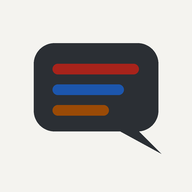
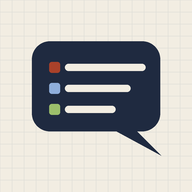
Nova estética: estilos Caderno de campo e Silêncio, Linha do tempo
- Estilos em Menu › Aparência: Caderno de campo (padrão), Silêncio, Clássico
- Caderno: papel quadriculado, fichas com abas, Fraunces + IBM Plex Mono
- Silêncio: cor só no essencial, cabeçalho e caixa de texto flutuantes, preto profundo
- Layout Linha do tempo com marca de agora e próximos compromissos e vencimentos
- Ícones próprios para os tipos; envio que vira card; expansão a partir do toque;
  carimbo PAGO; cor de destaque escolhida pelo usuário
- Novo ícone do app e cores da tela de abertura

Claude-Session: https://claude.ai/code/session_01TLyyv7W5W1kY5WACEsfQuE

Changed region(s): [[0.1562, 0.1875, 0.8438, 0.8125], [0.25, 0.3125, 0.7812, 0.5], [0.25, 0.5312, 0.625, 0.625]]

diff --git a/src/app.js b/src/app.js
@@ -2,23 +2,23 @@
 "use strict";
 /* ---------- ícones ---------- */
 const P = {
-  texto:'<path d="M17 10H3M21 6H3M21 14H3M17 18H3"/>',
-  imagem:'<rect x="3" y="3" width="18" height="18" rx="2"/><circle cx="8.5" cy="8.5" r="1.5"/><path d="M21 15l-5-5L5 21"/>',
-  audio:'<rect x="9" y="2" width="6" height="12" rx="3"/><path d="M19 10v1a7 7 0 0 1-14 0v-1M12 18v4"/>',
-  documento:'<path d="M14 2H6a2 2 0 0 0-2 2v16a2 2 0 0 0 2 2h12a2 2 0 0 0 2-2V8z"/><path d="M14 2v6h6"/>',
-  link:'<path d="M10 13a5 5 0 0 0 7.54.54l3-3a5 5 0 0 0-7.07-7.07l-1.72 1.71"/><path d="M14 11a5 5 0 0 0-7.54-.54l-3 3a5 5 0 0 0 7.07 7.07l1.71-1.71"/>',
-  agenda:'<rect x="3" y="4" width="18" height="18" rx="2"/><path d="M16 2v4M8 2v4M3 10h18"/>',
+  texto:'<path d="M4 20h16"/><path d="M14.5 4.5l3 3L8 17H5v-3z"/>',
+  imagem:'<rect x="4" y="3" width="16" height="18" rx="2"/><rect x="7" y="6" width="10" height="9" rx="1"/><path d="M8 18h4"/>',
+  audio:'<path d="M4 10v4M8 7v10M12 4v16M16 8v8M20 11v2"/>',
+  documento:'<path d="M14 3H6.5A2.5 2.5 0 0 0 4 5.5v13A2.5 2.5 0 0 0 6.5 21h11a2.5 2.5 0 0 0 2.5-2.5V9z"/><path d="M14 3v6h6"/><path d="M8 13h8M8 17h5"/>',
+  link:'<path d="M9 15l6-6"/><path d="M11 6.5l1.6-1.6a4 4 0 0 1 5.6 5.6L16.6 12"/><path d="M13 17.5l-1.6 1.6a4 4 0 0 1-5.6-5.6L7.4 12"/>',
+  agenda:'<rect x="3.5" y="5" width="17" height="15.5" rx="2.5"/><path d="M8 3v4M16 3v4M3.5 10h17"/><circle cx="12" cy="15" r="1.6"/>',
   bell:'<path d="M18 8A6 6 0 0 0 6 8c0 7-3 9-3 9h18s-3-2-3-9"/><path d="M13.73 21a2 2 0 0 1-3.46 0"/>',
-  despesa:'<path d="M12 1v22M17 5H9.5a3.5 3.5 0 0 0 0 7h5a3.5 3.5 0 0 1 0 7H6"/>',
-  apagar:'<circle cx="12" cy="12" r="10"/><path d="M12 6v6l4 2"/>',
-  pago:'<path d="M22 11.08V12a10 10 0 1 1-5.93-9.14"/><path d="M22 4L12 14.01l-3-3"/>',
-  compra:'<circle cx="9" cy="21" r="1"/><circle cx="20" cy="21" r="1"/><path d="M1 1h4l2.68 13.39a2 2 0 0 0 2 1.61h9.72a2 2 0 0 0 2-1.61L23 6H6"/>',
-  contato:'<path d="M20 21v-2a4 4 0 0 0-4-4H8a4 4 0 0 0-4 4v2"/><circle cx="12" cy="7" r="4"/>',
-  email:'<rect x="2" y="4" width="20" height="16" rx="2"/><path d="M22 6l-10 7L2 6"/>',
+  despesa:'<circle cx="12" cy="12" r="8.5"/><path d="M14.5 9.5c-.5-1-1.5-1.5-2.5-1.5-1.4 0-2.5.8-2.5 2s1.1 1.6 2.5 2 2.5.8 2.5 2-1.1 2-2.5 2c-1 0-2-.5-2.5-1.5M12 6.5V8M12 16v1.5"/>',
+  apagar:'<path d="M6.5 3h11M6.5 21h11"/><path d="M8 3v2.5a4 4 0 0 0 1.7 3.3L12 10.5l2.3-1.7A4 4 0 0 0 16 5.5V3M8 21v-2.5a4 4 0 0 1 1.7-3.3L12 13.5l2.3 1.7a4 4 0 0 1 1.7 3.3V21"/>',
+  pago:'<circle cx="12" cy="12" r="8.5"/><path d="M8.5 12.5l2.3 2.3 4.7-5"/>',
+  compra:'<path d="M5 8h14l-1.2 11.2a2 2 0 0 1-2 1.8H8.2a2 2 0 0 1-2-1.8z"/><path d="M9 10V7a3 3 0 0 1 6 0v3"/>',
+  contato:'<rect x="3" y="5" width="18" height="14" rx="2.5"/><circle cx="9" cy="11" r="2.3"/><path d="M5.8 16.2c.6-1.6 1.8-2.4 3.2-2.4s2.6.8 3.2 2.4M14.5 10h3.5M14.5 13.5h3"/>',
+  email:'<rect x="3" y="5.5" width="18" height="13" rx="2.5"/><path d="M4 7l8 6 8-6"/>',
   phone:'<path d="M22 16.92v3a2 2 0 0 1-2.18 2 19.79 19.79 0 0 1-8.63-3.07 19.5 19.5 0 0 1-6-6 19.79 19.79 0 0 1-3.07-8.67A2 2 0 0 1 4.11 2h3a2 2 0 0 1 2 1.72c.13.96.36 1.9.7 2.81a2 2 0 0 1-.45 2.11L8.09 9.91a16 16 0 0 0 6 6l1.27-1.27a2 2 0 0 1 2.11-.45c.91.34 1.85.57 2.81.7A2 2 0 0 1 22 16.92z"/>',
-  local:'<path d="M21 10c0 7-9 13-9 13s-9-6-9-13a9 9 0 0 1 18 0z"/><circle cx="12" cy="10" r="3"/>',
-  lista:'<path d="M9 11l3 3L22 4"/><path d="M21 12v7a2 2 0 0 1-2 2H5a2 2 0 0 1-2-2V5a2 2 0 0 1 2-2h11"/>',
-  itens:'<path d="M8 6h13M8 12h13M8 18h13M3 6h.01M3 12h.01M3 18h.01"/>',
+  local:'<path d="M12 21s-6-5.6-6-10.5a6 6 0 0 1 12 0C18 15.4 12 21 12 21z"/><circle cx="12" cy="10.5" r="2.2"/>',
+  lista:'<path d="M4 6.5l1.5 1.5L8.5 5M4 12.5l1.5 1.5 3-3M11 6.5h9M11 12.5h9M11 18.5h9M4.5 18.5h3"/>',
+  itens:'<path d="M9 6.5h11M9 12h11M9 17.5h11"/><circle cx="5" cy="6.5" r="1.3"/><circle cx="5" cy="12" r="1.3"/><circle cx="5" cy="17.5" r="1.3"/>',
   ul:'<path d="M9 6h12M9 12h12M9 18h12"/><circle cx="4" cy="6" r="1.2" fill="currentColor"/><circle cx="4" cy="12" r="1.2" fill="currentColor"/><circle cx="4" cy="18" r="1.2" fill="currentColor"/>',
   ol:'<path d="M10 6h11M10 12h11M10 18h11M4 4v4M3 8h2M3 12.5c0-1 2-1 2 0s-2 1.5-2 2.5h2M3 17h2v4H3M3 19h2"/>',
   quote:'<path d="M3 21c3 0 7-1 7-8V5H3v8h4M14 21c3 0 7-1 7-8V5h-7v8h4"/>',
@@ -290,11 +290,11 @@ function saveTags(){
   if(S.mode==='db'){ const tags=clone(S.tags); return enqueue(CFG, ()=>S.col.doc(CFG).set({kind:'cfg', tags}).catch(writeErr)); }
   try{ localStorage.setItem(TKEY, JSON.stringify(S.tags)); }catch(e){} return Promise.resolve();
 }
-function loadPref(){ try{ const p=JSON.parse(localStorage.getItem(PKEY)||'{}'); if(p.exib==='expandida') UI.exib='expandida'; if(p.tema==='claro'||p.tema==='escuro') UI.tema=p.tema; }catch(e){} applyTheme(); }
+function loadPref(){ try{ const p=JSON.parse(localStorage.getItem(PKEY)||'{}'); if(p.exib==='expandida') UI.exib='expandida'; if(p.tema==='claro'||p.tema==='escuro') UI.tema=p.tema; if(['caderno','silencio','classico'].indexOf(p.estilo)>=0) UI.estilo=p.estilo; if(p.layout==='linha') UI.layout='linha'; if(/^#[0-9A-Fa-f]{6}$/.test(p.accent||'')) UI.accent=p.accent; }catch(e){} applyTheme(); }
 const darkMQ=window.matchMedia?window.matchMedia('(prefers-color-scheme: dark)'):null;
-function applyTheme(){ const dark=UI.tema==='escuro' || (UI.tema==='auto' && darkMQ && darkMQ.matches); document.documentElement.setAttribute('data-theme', dark?'dark':'light'); const mt=document.querySelector('meta[name="theme-color"]'); if(mt) mt.setAttribute('content', dark?'#131416':'#F4F3EF'); }
+function applyTheme(){ const dark=UI.tema==='escuro' || (UI.tema==='auto' && darkMQ && darkMQ.matches); const de=document.documentElement; de.setAttribute('data-theme', dark?'dark':'light'); de.setAttribute('data-estilo', UI.estilo); if(UI.accent){ de.setAttribute('data-accent','1'); de.style.setProperty('--accent-c', UI.accent); } else { de.removeAttribute('data-accent'); de.style.removeProperty('--accent-c'); } const mt=document.querySelector('meta[name="theme-color"]'); if(mt) mt.setAttribute('content', getComputedStyle(de).getPropertyValue('--ground').trim()||'#F4F3EF'); }
 if(darkMQ){ try{ darkMQ.addEventListener('change', ()=>{ if(UI.tema==='auto') applyTheme(); }); }catch(e){ try{ darkMQ.addListener(()=>{ if(UI.tema==='auto') applyTheme(); }); }catch(e2){} } }
-function savePref(){ try{ localStorage.setItem(PKEY, JSON.stringify({exib:UI.exib, tema:UI.tema})); }catch(e){} }
+function savePref(){ try{ localStorage.setItem(PKEY, JSON.stringify({exib:UI.exib, tema:UI.tema, estilo:UI.estilo, layout:UI.layout, accent:UI.accent})); }catch(e){} }
 function loadLocal(){ try{ const raw=localStorage.getItem(LKEY); if(raw){ const arr=JSON.parse(raw); arr.forEach(it=>S.items.set(it.id,it)); } }catch(e){} }
 function saveLocal(){ try{ localStorage.setItem(LKEY, JSON.stringify(Array.from(S.items.values()))); }catch(e){ toast('Não foi possível salvar neste navegador.'); } }
 function body(it){ const o=clone(it); delete o.id; return o; }
@@ -339,7 +339,7 @@ async function initStore(){
 function setBanner(t){ const b=document.getElementById('banner'); b.textContent=t; b.hidden=!t; }
 
 /* ---------- interface ---------- */
-const UI = { filter:'tudo', tag:null, q:'', view:'feed', mes:null, exib:'compacta', tema:'auto', open:new Set(), pinIdx:0, fresh:new Set(), justOpened:null };
+const UI = { filter:'tudo', tag:null, q:'', view:'feed', mes:null, exib:'compacta', tema:'auto', estilo:'caderno', layout:'chat', accent:'', stamp:new Set(), viaComposer:new Set(), origin:null, open:new Set(), pinIdx:0, fresh:new Set(), justOpened:null };
 loadPref();
 let toastT=null;
 let undoFn=null;
@@ -370,15 +370,20 @@ function render(){
   const list=sorted().filter(matches);
   if(!S.loaded && S.items.size===0){ feed.innerHTML='<div class="empty">Carregando suas notas…</div>'; return; }
   if(list.length===0){
+    feed.classList.remove('linha');
     feed.innerHTML = sorted().length===0
       ? '<div class="empty"><b style="color:var(--ink);font-size:16px">Comece escrevendo abaixo</b><br>Experimente “pagar 180 ao Seu Zé dia 20”, “reunião sexta 19h” ou cole um link.<br><br>Formate como no WhatsApp: *negrito*, _itálico_, ~riscado~ e linhas começando com “-” viram lista.</div>'
       : emptyFor();
     return;
   }
-  let html='', lastDay='';
-  list.forEach(it=>{ const day=fmtDia(it.criado); if(day!==lastDay){ html+='<div class="sep">'+esc(day)+'</div>'; lastDay=day; } html+=card(it); });
-  feed.innerHTML=html;
-  if(wantEnd || atEnd){ feed.scrollTop=feed.scrollHeight; }
+  feed.classList.toggle('linha', UI.layout==='linha');
+  if(UI.layout==='linha'){ renderLinha(feed, list, atEnd); }
+  else {
+    let html='', lastDay='';
+    list.forEach(it=>{ const day=fmtDia(it.criado); if(day!==lastDay){ html+='<div class="sep">'+esc(day)+'</div>'; lastDay=day; } html+=card(it); });
+    feed.innerHTML=html;
+    if(wantEnd || atEnd){ feed.scrollTop=feed.scrollHeight; }
+  }
   wantEnd=false; UI.justOpened=null;
   notifyChanged();
 }
@@ -393,6 +398,29 @@ function emptyFor(){
   else if(T[tp].file) h+='<span>Toque no clipe, ao lado da caixa de texto, para escolher '+(tp==='imagem'?'fotos':tp==='audio'?'um áudio':'um arquivo')+(tp==='audio'?', ou no microfone para gravar.':'.')+'</span>';
   h+='<button type="button" class="btn dark" data-newtype="'+tp+'">Criar '+esc(nome)+'</button><button type="button" class="btn" data-clearf="1">Ver todos os itens</button></div>';
   return h;
+}
+function dayHead(d){ return '<div class="tdaynum"><b>'+d.getDate()+'</b><span>'+WD[d.getDay()]+'<br>'+MES[d.getMonth()]+(d.getFullYear()!==new Date().getFullYear()?' '+d.getFullYear():'')+'</span></div>'; }
+function renderLinha(feed, list, atEnd){
+  let html='', cur=null, open=false;
+  const close=()=>{ if(open){ html+='</div></section>'; open=false; } };
+  list.forEach(it=>{ const d=new Date(it.criado); d.setHours(0,0,0,0); if(!cur || d.getTime()!==cur.getTime()){ close(); cur=d; html+='<section class="tday">'+dayHead(d)+'<div class="titems">'; open=true; } html+='<div class="trow"><span class="ttime">'+fmtHora(it.criado)+'</span>'+card(it)+'</div>'; });
+  close();
+  // próximos compromissos e vencimentos (por data marcada)
+  const showFut=!UI.q && !UI.tag && (UI.filter==='tudo'||UI.filter==='agenda'||UI.filter==='despesa');
+  const fut=[]; const now=new Date(); const t=today(); const lim=new Date(t); lim.setDate(lim.getDate()+30);
+  if(showFut) sorted().forEach(i=>{ const d=i.dados||{}; let ds=null, hr=''; if(i.tipo==='agenda' && UI.filter!=='despesa'){ ds=d.data; hr=d.hora||''; } else if(i.tipo==='despesa' && d.situacao!=='pago' && UI.filter!=='agenda'){ ds=d.vencimento; } const dt=parseIso(ds); if(!dt || dt<t || dt>lim) return; if(dt.getTime()===t.getTime() && hr){ const [hh,mm]=hr.split(':').map(Number); const at=new Date(t); at.setHours(hh,mm); if(at<now) return; } fut.push({dt,hr,i}); });
+  fut.sort((a,b)=>a.dt-b.dt || String(a.hr).localeCompare(String(b.hr)));
+  html+='<div class="agora" id="agora">Agora · '+pad(now.getHours())+':'+pad(now.getMinutes())+'</div>';
+  if(fut.length){
+    let fd=null, fo=false;
+    fut.slice(0,25).forEach(f=>{ if(!fd || f.dt.getTime()!==fd.getTime()){ if(fo) html+='</div></section>'; fd=f.dt; html+='<section class="tday futuro">'+dayHead(f.dt)+'<div class="titems">'; fo=true; }
+      const d=f.i.dados; const isD=f.i.tipo==='despesa';
+      html+='<div class="trow"><span class="ttime">'+esc(f.hr||(isD?'vence':'—'))+'</span><button type="button" class="ghost" data-goto="'+esc(f.i.id)+'"><span style="color:'+famColor(f.i)+';display:flex">'+svg(iconOf(f.i),18)+'</span><span style="display:flex;flex-direction:column;gap:1px;min-width:0"><b>'+esc(isD?(d.descricao||'Despesa'):(d.titulo||'Compromisso'))+'</b><span class="gsub">'+esc(isD?('A pagar · '+fmtMoney(d.valor)+(d.para?' · '+d.para:'')):[d.local, d.repetir?'repete '+repLabel(d.repetir):''].filter(Boolean).join(' · ')||'Agenda')+'</span></span></button></div>';
+    });
+    if(fo) html+='</div></section>';
+  } else if(showFut) html+='<p class="muted" style="text-align:center;margin:0 0 12px">Nada marcado para os próximos 30 dias.</p>';
+  feed.innerHTML=html;
+  if(wantEnd || atEnd){ const ag=document.getElementById('agora'); feed.scrollTop = ag ? Math.max(0, ag.offsetTop - feed.clientHeight*0.62) : feed.scrollHeight; }
 }
 function activeCount(){ return (UI.filter!=='tudo'?1:0)+(UI.tag?1:0); }
 function renderActive(){
@@ -433,7 +461,7 @@ function gallery(id, as, alt){
   return h+'</div>';
 }
 function fullCard(it){
-  const d=it.dados||{}; const fk=famKey(it); let cls='card f-'+fk+(UI.justOpened===it.id?' abrindo':'')+(UI.fresh.has(it.id)?' novo':''); const id=esc(it.id);
+  const d=it.dados||{}; const fk=famKey(it); let cls='card f-'+fk+(UI.justOpened===it.id?' abrindo':'')+(UI.fresh.has(it.id)?' novo':'')+(UI.viaComposer.has(it.id)?' doenvio':'')+(UI.stamp.has(it.id)?' carimbo':''); const id=esc(it.id);
   let inner='';
   switch(it.tipo){
     case 'texto': {
@@ -461,7 +489,8 @@ function fullCard(it){
   }
   const tags=itemTags(it); const compactMode=UI.exib==='compacta';
   inner+='<div class="cfoot">'+(tags.length?'<div class="tpills">'+tags.map(t=>tagPill(t)).join('')+'</div>':'')+'<div class="cacts"><button type="button" class="mini" data-edit="'+id+'">'+svg('edit',14)+'Editar</button>'+(compactMode?'<button type="button" class="mini" data-collapse="'+id+'" aria-expanded="true">'+'<span style="display:inline-flex;transform:rotate(180deg)">'+svg('chevron',14)+'</span>Recolher</button>':'')+'</div></div>';
-  return '<div class="'+cls+'" data-open="'+id+'" tabindex="0" aria-label="'+esc(typeLabel(it))+': '+esc(cardTitle(it))+(compactMode?' (expandido; toque para recolher)':'')+'">'+inner+'</div>';
+  const og=(UI.origin && UI.origin.id===it.id)?' style="--ox:'+UI.origin.ox+'%;--oy:'+UI.origin.oy+'%"':'';
+  return '<div class="'+cls+'"'+og+' data-open="'+id+'" tabindex="0" aria-label="'+esc(typeLabel(it))+': '+esc(cardTitle(it))+(compactMode?' (expandido; toque para recolher)':'')+'">'+inner+'</div>';
 }
 function summary(it){
   const d=it.dados||{}; let t='', sub='', right='', thumb='';
@@ -494,7 +523,7 @@ function quickAction(it){
 }
 function card(it){
   if(UI.exib!=='compacta' || UI.open.has(it.id)) return fullCard(it);
-  const sm=summary(it); const id=esc(it.id); let cls='card compact f-'+famKey(it)+(UI.fresh.has(it.id)?' novo':'');
+  const sm=summary(it); const id=esc(it.id); let cls='card compact f-'+famKey(it)+(UI.fresh.has(it.id)?' novo':'')+(UI.viaComposer.has(it.id)?' doenvio':'')+(UI.stamp.has(it.id)?' carimbo':'');
   if(it.tipo==='texto' && it.dados && it.dados.estilo==='destaque') cls+=' st-destaque';
   const tags=itemTags(it);
   if(it.tipo==='lista'){ const its=it.dados.itens||[]; const k=its.findIndex(x=>!x.ok); if(k>=0) sm.sub='Próximo: '+its[k].t; else if(its.length) sm.sub='Tudo concluído'; }
@@ -554,6 +583,7 @@ function send(asText){
   let it;
   if(!asText && sug){ it=newItem(sug.tipo, clone(sug.dados)); it.hist[0].txt='Criado a partir do texto “'+v.slice(0,80)+'”'; }
   else it=newItem('texto', hasWa(v)?{html:waToHtml(v), texto:plainOf(waToHtml(v))}:{texto:v});
+  UI.viaComposer.add(it.id); setTimeout(()=>UI.viaComposer.delete(it.id), 1200);
   put(it); resetComposer();
 }
 msg.addEventListener('input', ()=>{ autosize(); updateSuggest(); updateSendBtn(); });
@@ -764,6 +794,7 @@ function markPaid(id, silent){
   const it=S.items.get(id); if(!it || it.tipo!=='despesa' || it.dados.situacao==='pago') return;
   const prev=clone(it); const n=clone(it);
   n.dados.situacao='pago'; n.dados.pagoEm=isoOf(today()); n.pagoNoApp=true; addHist(n,'Marcado como pago');
+  UI.stamp.add(id); setTimeout(()=>{ UI.stamp.delete(id); scheduleRender(); }, 1100);
   const nx=makeNext(n); if(nx){ n.proxId=nx.id; put(nx); }
   put(n); buzz();
   if(!silent) toastUndo(nx?'Pago. Próximo vencimento: '+fmtData(nx.dados.vencimento)+'.':'Marcado como pago.', ()=>{ put(prev); if(nx) remove(nx.id); });
@@ -946,8 +977,12 @@ layer.addEventListener('click', ev=>{
   if(ds.restore){ const it=S.items.get(ds.restore); if(it){ const n=clone(it); delete n.excluido; addHist(n,'Restaurado da lixeira'); put(n); toast('Item restaurado.'); } openTrash(true); return; }
   if(ds.purge){ remove(ds.purge); toast('Excluído de vez.'); openTrash(true); return; }
   if(ds.purgeall){ trashed().forEach(i=>remove(i.id)); toast('Lixeira esvaziada.'); openTrash(true); return; }
-  if(ds.tema){ UI.tema=ds.tema; savePref(); applyTheme(); openMenu(); return; }
-  if(ds.exib){ UI.exib=ds.exib; savePref(); UI.open.clear(); openMenu(); scheduleRender(); return; }
+  if(ds.aparencia){ openAparencia(); return; }
+  if(ds.tema){ UI.tema=ds.tema; savePref(); applyTheme(); openAparencia(true); scheduleRender(); return; }
+  if(ds.exib){ UI.exib=ds.exib; savePref(); UI.open.clear(); openAparencia(true); scheduleRender(); return; }
+  if(ds.estilo){ UI.estilo=ds.estilo; savePref(); applyTheme(); openAparencia(true); scheduleRender(); return; }
+  if(ds.layout){ UI.layout=ds.layout; savePref(); wantEnd=true; openAparencia(true); scheduleRender(true); return; }
+  if(ds.accent!=null){ UI.accent=ds.accent; savePref(); applyTheme(); openAparencia(true); return; }
 });
 
 /* ---------- ações no feed ---------- */
@@ -984,7 +1019,7 @@ function onFeedClick(ev){
   const id=o.dataset.open;
   if(o.closest('#views') || o.closest('#aside')){ UI.view='feed'; expandAndShow(id); return; }
   if(UI.exib!=='compacta') return;
-  if(UI.open.has(id)){ if(ev.target.closest('a,button,input,audio,select,textarea,label')) return; UI.open.delete(id); } else { UI.open.add(id); UI.justOpened=id; }
+  if(UI.open.has(id)){ if(ev.target.closest('a,button,input,audio,select,textarea,label')) return; UI.open.delete(id); } else { UI.open.add(id); UI.justOpened=id; const cr=(o.closest('.card')||o).getBoundingClientRect(); UI.origin={id, ox:Math.round((ev.clientX-cr.left)/Math.max(1,cr.width)*100), oy:Math.round((ev.clientY-cr.top)/Math.max(1,cr.height)*100)}; }
   render(); focusCard(id);
 }
 function focusCard(id){ const el=document.querySelector('#feed [data-open="'+(window.CSS&&CSS.escape?CSS.escape(id):id)+'"]'); if(el){ try{ el.focus({preventScroll:true}); }catch(e){} const f=document.getElementById('feed'); const r=el.getBoundingClientRect(), fr=f.getBoundingClientRect(); if(r.bottom>fr.bottom) f.scrollTop+=r.bottom-fr.bottom+8; if(r.top<fr.top) f.scrollTop-=fr.top-r.top+8; } }
@@ -1119,6 +1154,20 @@ function rebindComposer(){ msg=document.getElementById('msg'); msg.addEventListe
 document.getElementById('bMenu').addEventListener('click', openMenu);
 document.getElementById('toastbar').addEventListener('click', ev=>{ if(!ev.target.closest('[data-undo]') || !undoFn) return; const f=undoFn; undoFn=null; const el=document.getElementById('toastbar'); el.hidden=true; el.classList.remove('withundo'); f(); toast('Desfeito.'); });
 
+/* ---------- aparência ---------- */
+const ACCENTS=[['','Padrão'],['#0F5E63','Petróleo'],['#3F3D9E','Índigo'],['#7A2846','Vinho'],['#5B3A70','Ameixa'],['#5A5A1E','Oliva']];
+function segOpts(key, cur, opts){ return '<div class="seg" role="group" aria-labelledby="lb_'+key+'" style="--n:'+opts.length+'">'+opts.map(o=>'<button type="button" data-'+key+'="'+o[0]+'" aria-pressed="'+(cur===o[0])+'">'+esc(o[1])+'</button>').join('')+'</div>'; }
+function openAparencia(keep){
+  let h=sheetHead('Aparência');
+  const est=[['caderno','Caderno de campo','Papel quadriculado, fichas com abas, serifa e números de livro-caixa.'],['silencio','Silêncio','Quase sem cor: só o que pede atenção aparece. Preto profundo no escuro.'],['classico','Clássico','O visual anterior, com fundos coloridos por tipo.']];
+  h+='<div class="field"><span class="flabel" id="lb_estilo">Estilo</span><div class="estilos" role="group" aria-labelledby="lb_estilo">'+est.map(e=>'<button type="button" class="estcard" data-estilo="'+e[0]+'" aria-pressed="'+(UI.estilo===e[0])+'"><span class="estprev est-'+e[0]+'"><i></i><i></i><i></i></span><span class="esttx"><b>'+esc(e[1])+'</b><span>'+esc(e[2])+'</span></span></button>').join('')+'</div></div>';
+  h+='<div class="field"><span class="flabel" id="lb_tema">Modo</span>'+segOpts('tema', UI.tema, [['auto','Automático'],['claro','Claro'],['escuro','Escuro']])+'</div>';
+  h+='<div class="field"><span class="flabel" id="lb_layout">Layout do feed</span>'+segOpts('layout', UI.layout, [['chat','Conversa'],['linha','Linha do tempo']])+'<span class="muted">'+(UI.layout==='linha'?'Os dias ficam na margem, com a marca de agora e os próximos compromissos e vencimentos abaixo dela.':'Os itens aparecem como mensagens, do mais antigo ao mais novo.')+'</span></div>';
+  h+='<div class="field"><span class="flabel" id="lb_exib">Itens</span>'+segOpts('exib', UI.exib, [['compacta','Compactos'],['expandida','Expandidos']])+'</div>';
+  h+='<div class="field"><span class="flabel" id="lb_acc">Cor de destaque (botões principais)</span><div class="accgrid" role="group" aria-labelledby="lb_acc">'+ACCENTS.map(a=>'<button type="button" data-accent="'+a[0]+'" aria-pressed="'+(UI.accent===a[0])+'" aria-label="'+esc(a[1])+'" style="background:'+(a[0]||'var(--strong)')+'">'+(UI.accent===a[0]?svg('check',18,3):'')+'</button>').join('')+'</div><span class="muted">As cores que indicam tipo e situação não mudam.</span></div>';
+  openSheet(h,'Aparência', keep);
+}
+
 /* ---------- lixeira ---------- */
 function openTrash(keep){
   const its=trashed();
@@ -1138,8 +1187,7 @@ function openMenu(){
   const acc=window.__account;
   h+='<div style="font-size:14px;line-height:1.5;background:var(--soft);border-radius:12px;padding:12px 14px">'+(S.mode==='db'?'<b>Sincronizado na nuvem.</b> Suas notas aparecem em qualquer aparelho em que você entrar com a sua conta.'+(acc?'<br><b>Conta:</b> '+esc(acc.email):''):'<b>Modo local:</b> as notas ficam só neste aparelho. Faça backups com frequência.')+'<br><b>Itens:</b> '+n+'</div>';
   if(acc) h+='<button type="button" class="btn" data-logout="1">Sair da conta</button>';
-  h+='<div class="field"><span class="flabel" id="lb_tema">Aparência</span><div class="seg" role="group" aria-labelledby="lb_tema" style="--n:3"><button type="button" data-tema="auto" aria-pressed="'+(UI.tema==='auto')+'">Automático</button><button type="button" data-tema="claro" aria-pressed="'+(UI.tema==='claro')+'">Claro</button><button type="button" data-tema="escuro" aria-pressed="'+(UI.tema==='escuro')+'">Escuro</button></div><span class="muted">'+(UI.tema==='auto'?'Segue o modo claro ou escuro do aparelho.':UI.tema==='escuro'?'Sempre escuro.':'Sempre claro.')+'</span></div>';
-  h+='<div class="field"><span class="flabel" id="lb_exib">Exibição dos itens</span><div class="seg" role="group" aria-labelledby="lb_exib" style="--n:2"><button type="button" data-exib="compacta" aria-pressed="'+(UI.exib==='compacta')+'">Compacta</button><button type="button" data-exib="expandida" aria-pressed="'+(UI.exib==='expandida')+'">Expandida</button></div><span class="muted">'+(UI.exib==='compacta'?'Os itens aparecem resumidos; toque para expandir.':'Os itens aparecem completos.')+'</span></div>';
+  h+='<button type="button" class="btn" data-aparencia="1" style="justify-content:space-between"><span style="display:inline-flex;align-items:center;gap:8px">'+svg('texto',16)+'Aparência</span><span class="muted">'+esc(({caderno:'Caderno de campo',silencio:'Silêncio',classico:'Clássico'})[UI.estilo])+' · '+(UI.layout==='linha'?'Linha do tempo':'Conversa')+'</span></button>';
   h+='<div class="grid2"><button type="button" class="btn" data-tagmgr2="1">'+svg('tag',16)+'Marcadores ('+S.tags.length+')</button><button type="button" class="btn" data-lixeira="1">'+svg('trash',16)+'Lixeira ('+trashed().length+')</button></div>';
   h+='<div class="muted" style="line-height:1.5"><b style="color:var(--ink)">Dicas:</b> toque num item para expandir; toque longo (ou o botão Editar) para editar. Na caixa de texto, *negrito*, _itálico_, ~riscado~ e linhas com “-” viram lista.</div>';
   h+='<div style="display:flex;flex-direction:column;gap:8px"><span class="flabel">Backup</span><button type="button" class="btn dark" data-exp="1">Exportar backup (arquivo .json)</button><label class="btn" for="fImport" style="cursor:pointer">Importar backup</label><input type="file" id="fImport" class="sr" accept="application/json,.json"><span class="muted">O backup guarda textos e dados. Imagens, áudios e documentos continuam no armazenamento do app.</span></div>';

diff --git a/src/style.css b/src/style.css
@@ -319,3 +319,150 @@ main.feed .sep{position:sticky;top:6px;z-index:3;box-shadow:0 1px 4px var(--shad
 .exemplo{display:block;background:var(--surface);border:1px solid var(--line);border-radius:12px;padding:10px 14px;font-family:inherit;font-size:14px;color:var(--ink);text-align:left;max-width:280px}
 .app{position:relative}
 .app.dropping::after{content:'Solte para enviar';position:absolute;inset:12px;border:2px dashed var(--tempo);border-radius:20px;background:color-mix(in srgb, var(--ground) 85%, transparent);display:flex;align-items:center;justify-content:center;font-size:18px;font-weight:700;color:var(--tempo);z-index:30;pointer-events:none}
+
+/* =====================================================================
+   ESTILOS VISUAIS — escolhidos em Menu › Aparência
+   (data-estilo no <html>: caderno | silencio | classico)
+   ===================================================================== */
+:root{ --accent:var(--strong); --f-display:'Inter Variable',Inter,system-ui,sans-serif; --f-mono:ui-monospace,'SF Mono',Menlo,monospace; --grid:none; }
+.btn.dark,.round.dark,.toastbar .tundo{background-color:var(--accent);border-color:var(--accent)}
+.btn.dark{background:var(--accent)} .round.dark{background:var(--accent)}
+.chip[aria-pressed="true"].tchip,.seg.navseg button[aria-pressed="true"]{}
+body{background-image:var(--grid);background-attachment:fixed}
+.app,main.feed,.views{background:transparent}
+
+/* ---------- A. Caderno de campo ---------- */
+:root[data-estilo="caderno"]{
+  --ground:#F2EDE2; --surface:#FBF8F1; --line:#E2D9C8; --line2:#D3C8B3; --ink:#1F2A40; --ink2:#46506A; --muted:#6F6A5E;
+  --soft:#F5F0E5; --soft2:#E9E2D3; --strong:#1F2A40; --box:#B98A3E; --shadow:rgba(60,45,20,.10);
+  --reg:#4A4A44; --reg-bg:#FBF8F1; --reg-bd:#E2D9C8; --reg-chip:#EDE7DA;
+  --tempo:#36577F; --tempo-bg:#FBF8F1; --tempo-bd:#E2D9C8; --tempo-chip:#E3E8EE;
+  --pagar:#A9412A; --pagar-bg:#FBF3EC; --pagar-bd:#EBCFC2; --pagar-chip:#F3DED3; --pagar-solid:#A9412A;
+  --din:#4C6A2C; --din-bg:#FBF8F1; --din-bd:#E2D9C8; --din-chip:#E6EBD9; 
+  --pes:#6A4677; --pes-bg:#FBF8F1; --pes-bd:#E2D9C8; --pes-chip:#ECE3EE; --pes-solid:#6A4677;
+  --lis:#94620F; --lis-bg:#FBF8F1; --lis-bd:#E2D9C8; --lis-chip:#F1E6CF; --lis-solid:#94620F;
+  --f-display:'Fraunces Variable',Georgia,serif; --f-mono:'IBM Plex Mono',ui-monospace,monospace;
+  --grid:linear-gradient(rgba(54,87,127,.055) 1px,transparent 1px),linear-gradient(90deg,rgba(54,87,127,.055) 1px,transparent 1px);
+}
+:root[data-estilo="caderno"][data-theme="dark"]{
+  --ground:#18201E; --surface:#212A27; --line:#2F3A36; --line2:#3D4A45; --ink:#ECE6D8; --ink2:#C9C2B2; --muted:#9C9688;
+  --soft:#26302D; --soft2:#2E3935; --strong:#3F4B47; --box:#C9A15C; --shadow:rgba(0,0,0,.35);
+  --reg:#C9C2B2; --reg-bg:#222B28; --reg-bd:#2F3A36; --reg-chip:#2E3935;
+  --tempo:#93B3DC; --tempo-bg:#222B28; --tempo-bd:#2F3A36; --tempo-chip:#26354A;
+  --pagar:#EE9678; --pagar-bg:#2C2320; --pagar-bd:#4A3129; --pagar-chip:#45291F; --pagar-solid:#B04A31;
+  --din:#A9C67B; --din-bg:#222B28; --din-bd:#2F3A36; --din-chip:#2C3A22;
+  --pes:#CBA5D8; --pes-bg:#222B28; --pes-bd:#2F3A36; --pes-chip:#382B3E; --pes-solid:#7A5288;
+  --lis:#E3B562; --lis-bg:#222B28; --lis-bd:#2F3A36; --lis-chip:#40331B; --lis-solid:#9C6A14;
+  --grid:linear-gradient(rgba(255,255,255,.035) 1px,transparent 1px),linear-gradient(90deg,rgba(255,255,255,.035) 1px,transparent 1px);
+}
+:root[data-estilo="caderno"] body{background-size:24px 24px}
+:root[data-estilo="caderno"] h1,:root[data-estilo="caderno"] h2,:root[data-estilo="caderno"] .ctitle,:root[data-estilo="caderno"] .cttl,:root[data-estilo="caderno"] .ttitle,:root[data-estilo="caderno"] .sbrand,:root[data-estilo="caderno"] .ah{font-family:var(--f-display);letter-spacing:-.005em}
+:root[data-estilo="caderno"] .ctitle,:root[data-estilo="caderno"] .cttl{font-weight:600;font-size:16px;font-variation-settings:"opsz" 24}
+:root[data-estilo="caderno"] .money,:root[data-estilo="caderno"] .cval,:root[data-estilo="caderno"] .stat strong{font-family:var(--f-display);font-weight:600;font-variant-numeric:tabular-nums;font-variation-settings:"opsz" 48}
+:root[data-estilo="caderno"] .money{font-size:21px}
+:root[data-estilo="caderno"] .time,:root[data-estilo="caderno"] .csub2,:root[data-estilo="caderno"] .tlabel,:root[data-estilo="caderno"] .scount,:root[data-estilo="caderno"] .cal b,:root[data-estilo="caderno"] .pill{font-family:var(--f-mono);letter-spacing:0}
+:root[data-estilo="caderno"] .tlabel{font-size:10.5px;letter-spacing:.08em}
+:root[data-estilo="caderno"] .card{border-radius:4px 14px 14px 14px;box-shadow:0 1px 0 var(--line2),0 6px 14px -10px var(--shadow);margin-top:6px}
+:root[data-estilo="caderno"] .card::before{content:'';position:absolute;top:-6px;left:14px;width:42px;height:6px;border-radius:4px 4px 0 0;background:var(--reg)}
+:root[data-estilo="caderno"] .card.f-tempo::before{background:var(--tempo)} :root[data-estilo="caderno"] .card.f-pagar::before{background:var(--pagar)}
+:root[data-estilo="caderno"] .card.f-din::before{background:var(--din)} :root[data-estilo="caderno"] .card.f-pes::before{background:var(--pes)}
+:root[data-estilo="caderno"] .card.f-lis::before{background:var(--lis)}
+:root[data-estilo="caderno"] .card.f-pagar{background:var(--pagar-bg);border-color:var(--pagar-bd)}
+:root[data-estilo="caderno"] .sep{font-family:var(--f-mono);text-transform:uppercase;letter-spacing:.08em;font-size:11px;background:var(--ground);color:var(--ink2);border:1.5px solid var(--ink2);border-radius:4px;padding:3px 10px;transform:rotate(-1.2deg)}
+:root[data-estilo="caderno"] svg{stroke-width:1.7}
+:root[data-estilo="caderno"] header.top,:root[data-estilo="caderno"] footer.composer{background:color-mix(in srgb,var(--ground) 92%,transparent)}
+:root[data-estilo="caderno"] .rich{font-size:15.5px;line-height:1.55}
+:root[data-estilo="caderno"] .card.st-citacao .rich{font-family:var(--f-display)}
+
+/* ---------- B. Silêncio e contraste ---------- */
+:root[data-estilo="silencio"]{
+  --ground:#F7F7F5; --surface:#FFFFFF; --line:#E9E9E6; --line2:#DADAD6; --ink:#111214; --ink2:#3A3C40; --muted:#6B6D72;
+  --soft:#F3F3F1; --soft2:#EBEBE8; --strong:#111214;
+  --reg:#3A3C40; --tempo:#3A3C40; --pes:#3A3C40; --lis:#3A3C40;
+  --reg-bg:#FFFFFF; --tempo-bg:#FFFFFF; --pes-bg:#FFFFFF; --lis-bg:#FFFFFF; --din-bg:#FFFFFF; --pagar-bg:#FFFFFF;
+  --reg-bd:#E9E9E6; --tempo-bd:#E9E9E6; --pes-bd:#E9E9E6; --lis-bd:#E9E9E6; --din-bd:#E9E9E6; --pagar-bd:#F0CFCA;
+  --reg-chip:#F3F3F1; --tempo-chip:#F3F3F1; --pes-chip:#F3F3F1; --lis-chip:#F3F3F1; --din-chip:#F3F3F1; --pagar-chip:#FBE9E7;
+  --pagar:#C0281C; --pagar-solid:#C0281C; --din:#177245; --lis-solid:#111214; --pes-solid:#3A3C40; --box:#9A9CA0;
+}
+:root[data-estilo="silencio"][data-theme="dark"]{
+  --ground:#000000; --surface:#0C0C0D; --line:#1C1D20; --line2:#2A2B2F; --ink:#F2F2F0; --ink2:#C4C5C8; --muted:#8B8D92;
+  --soft:#121315; --soft2:#1B1C1F; --strong:#2B2C30;
+  --reg:#C4C5C8; --tempo:#C4C5C8; --pes:#C4C5C8; --lis:#C4C5C8;
+  --reg-bg:#0C0C0D; --tempo-bg:#0C0C0D; --pes-bg:#0C0C0D; --lis-bg:#0C0C0D; --din-bg:#0C0C0D; --pagar-bg:#0C0C0D;
+  --reg-bd:#1C1D20; --tempo-bd:#1C1D20; --pes-bd:#1C1D20; --lis-bd:#1C1D20; --din-bd:#1C1D20; --pagar-bd:#4A1E1A;
+  --reg-chip:#17181A; --tempo-chip:#17181A; --pes-chip:#17181A; --lis-chip:#17181A; --din-chip:#17181A; --pagar-chip:#2A1210;
+  --pagar:#FF8A7E; --pagar-solid:#C0281C; --din:#6FD39B; --lis-solid:#3A3C40; --pes-solid:#3A3C40; --box:#6B6D72;
+}
+:root[data-estilo="silencio"] main.feed{gap:12px;padding-top:18px}
+:root[data-estilo="silencio"] .card{border-radius:16px;box-shadow:none}
+:root[data-estilo="silencio"] .card.compact{min-height:62px}
+:root[data-estilo="silencio"] .ctitle,:root[data-estilo="silencio"] .cttl{font-size:16px;font-weight:650;letter-spacing:-.01em}
+:root[data-estilo="silencio"] .money{font-size:24px;font-weight:750;letter-spacing:-.02em;font-variant-numeric:tabular-nums}
+:root[data-estilo="silencio"] .cval{font-size:17px;font-weight:750;font-variant-numeric:tabular-nums}
+:root[data-estilo="silencio"] .tlabel{color:var(--muted)!important}
+:root[data-estilo="silencio"] .sep{background:transparent;box-shadow:none;font-size:11.5px;letter-spacing:.06em;text-transform:uppercase;color:var(--muted)}
+:root[data-estilo="silencio"] main.feed .sep{background:color-mix(in srgb,var(--ground) 88%,transparent);backdrop-filter:blur(6px)}
+/* cabeçalho e caixa de texto flutuantes */
+:root[data-estilo="silencio"] header.top{position:relative;z-index:5;margin:calc(8px + env(safe-area-inset-top)) 10px 0;padding:8px;border:1px solid var(--line);border-radius:18px;background:color-mix(in srgb,var(--surface) 88%,transparent);backdrop-filter:blur(10px);box-shadow:0 6px 20px -12px rgba(0,0,0,.25)}
+:root[data-estilo="silencio"] footer.composer{margin:0 10px calc(10px + env(safe-area-inset-bottom));padding:6px;border:1px solid var(--line);border-radius:28px;background:color-mix(in srgb,var(--surface) 92%,transparent);backdrop-filter:blur(10px);box-shadow:0 10px 30px -14px rgba(0,0,0,.35)}
+:root[data-estilo="silencio"] textarea.msg{border:0;background:transparent}
+@media (min-width:1024px){
+  :root[data-estilo="silencio"] header.top{margin:0;border:0;box-shadow:none;background:transparent;padding:0}
+  :root[data-estilo="silencio"] footer.composer{margin:0 max(24px, calc((100% - 760px)/2)) 16px}
+}
+
+/* ---------- cor de destaque (só botões principais) ---------- */
+:root[data-accent]{--accent:var(--accent-c)}
+.accgrid{display:grid;grid-template-columns:repeat(6,minmax(0,1fr));gap:8px}
+.accgrid button{height:44px;border-radius:12px;border:2px solid transparent;color:#fff;display:flex;align-items:center;justify-content:center}
+.accgrid button[aria-pressed="true"]{border-color:var(--ink);box-shadow:inset 0 0 0 2px var(--surface)}
+
+/* ---------- carimbo PAGO e movimento ---------- */
+.card{transform-origin:var(--ox,90%) var(--oy,50%)}
+.carimbo::after{content:'PAGO';position:absolute;right:14px;top:50%;font-family:var(--f-mono);font-weight:700;font-size:15px;letter-spacing:.12em;color:var(--din);border:2.5px solid var(--din);border-radius:6px;padding:2px 8px;transform:translateY(-50%) rotate(-12deg);animation:carimbo .9s ease-out forwards;pointer-events:none;background:color-mix(in srgb,var(--surface) 70%,transparent)}
+@keyframes carimbo{0%{opacity:0;transform:translateY(-50%) rotate(-12deg) scale(1.8)}25%{opacity:1;transform:translateY(-50%) rotate(-12deg) scale(.95)}35%{transform:translateY(-50%) rotate(-12deg) scale(1)}80%{opacity:1}100%{opacity:0}}
+.card.novo.doenvio{animation:doenvio .42s cubic-bezier(.2,.8,.2,1)}
+@keyframes doenvio{from{opacity:0;transform:translateY(46px) scale(.92)}to{opacity:1;transform:none}}
+@media (prefers-reduced-motion:reduce){.carimbo::after{animation:none;opacity:0}.card.novo.doenvio{animation:none}}
+
+/* ---------- Linha do tempo ---------- */
+.feed.linha{gap:0;padding-left:0}
+.tday{display:grid;grid-template-columns:64px minmax(0,1fr);align-items:start;margin-bottom:10px}
+.tdaynum{position:sticky;top:6px;display:flex;flex-direction:column;align-items:center;padding-top:6px;z-index:2}
+.tdaynum b{font-family:var(--f-display);font-size:30px;line-height:1;font-weight:650;color:var(--ink)}
+.tdaynum span{font-family:var(--f-mono);font-size:10.5px;text-transform:uppercase;letter-spacing:.06em;color:var(--muted);margin-top:3px;text-align:center}
+.titems{display:flex;flex-direction:column;gap:10px;border-left:2px solid var(--line2);padding:6px 0 10px 0}
+.trow{display:grid;grid-template-columns:48px minmax(0,1fr);align-items:start;position:relative}
+.trow::before{content:'';position:absolute;left:-6px;top:16px;width:10px;height:10px;border-radius:99px;background:var(--surface);border:2px solid var(--line2)}
+.ttime{font-family:var(--f-mono);font-size:11px;color:var(--muted);padding:13px 0 0 12px}
+.feed.linha .card{align-self:stretch;width:auto;border-radius:12px;margin-right:10px}
+:root[data-estilo="caderno"] .feed.linha .card{border-radius:4px 12px 12px 12px}
+.agora{display:flex;align-items:center;gap:10px;margin:6px 10px 14px 10px;font-family:var(--f-mono);font-size:11px;font-weight:700;letter-spacing:.1em;text-transform:uppercase;color:var(--pagar)}
+.agora::before,.agora::after{content:'';height:2px;background:var(--pagar);flex:1}
+.agora::before{flex:0 0 46px}
+.futuro .tdaynum b{color:var(--muted)}
+.futuro .titems{border-left-style:dashed}
+.ghost{display:flex;align-items:center;gap:10px;border:1.5px dashed var(--line2);border-radius:12px;padding:10px 12px;margin-right:10px;background:transparent;color:var(--ink2);text-align:left;min-height:48px;width:calc(100% - 10px)}
+.ghost b{font-weight:600;color:var(--ink)}
+.ghost .gsub{font-size:12.5px;color:var(--muted)}
+.tvazio{margin:auto;color:var(--muted);text-align:center}
+@media (min-width:1024px){ .feed.linha{padding-left:max(24px, calc((100% - 760px)/2))} }
+.estilos{display:flex;flex-direction:column;gap:8px}
+.estcard{display:flex;align-items:center;gap:12px;border:1.5px solid var(--line2);background:var(--surface);border-radius:14px;padding:10px 12px;text-align:left;color:var(--ink)}
+.estcard[aria-pressed="true"]{border-color:var(--ink);box-shadow:0 0 0 1px var(--ink)}
+.esttx{display:flex;flex-direction:column;gap:2px;min-width:0}
+.esttx span{font-size:12.5px;color:var(--muted);line-height:1.35}
+.estprev{width:64px;height:52px;flex:0 0 auto;border-radius:10px;display:flex;flex-direction:column;justify-content:center;gap:5px;padding:7px;box-sizing:border-box}
+.estprev i{display:block;height:10px;border-radius:3px}
+.est-caderno{background:#F2EDE2 linear-gradient(rgba(54,87,127,.08) 1px,transparent 1px) 0 0/8px 8px,#F2EDE2;border:1px solid #E2D9C8}
+.est-caderno i{background:#FBF8F1;border:1px solid #E2D9C8;border-top:3px solid #A9412A}
+.est-caderno i:nth-child(2){border-top-color:#36577F;width:80%} .est-caderno i:nth-child(3){border-top-color:#4C6A2C;width:90%}
+.est-silencio{background:#F7F7F5;border:1px solid #E9E9E6}
+.est-silencio i{background:#fff;border:1px solid #E9E9E6} .est-silencio i:nth-child(1){border-color:#F0CFCA} .est-silencio i:nth-child(2){width:80%}
+.est-classico{background:#F4F3EF;border:1px solid #E2E0DB}
+.est-classico i:nth-child(1){background:#FDF0EE} .est-classico i:nth-child(2){background:#EEF4FD;width:80%} .est-classico i:nth-child(3){background:#FEF4E8;width:90%}
+.agora{width:auto;align-self:stretch;white-space:nowrap;flex:0 0 auto}
+.agora::after{min-width:20px}
+.trow>.ghost{justify-self:stretch;width:auto;margin-right:10px}
+.tday{flex:0 0 auto}
+.feed.linha .card .cright .time,.feed.linha .chead .time{display:none}

diff --git a/index.html b/index.html
@@ -3,8 +3,8 @@
 <head>
 <meta charset="utf-8">
 <meta name="viewport" content="width=device-width, initial-scale=1, viewport-fit=cover">
-<meta name="theme-color" content="#F4F3EF">
-<script>try{var p=JSON.parse(localStorage.getItem('minhas-notas-pref')||'{}'),t=p.tema||'auto',d=t==='escuro'||(t==='auto'&&window.matchMedia&&matchMedia('(prefers-color-scheme: dark)').matches);document.documentElement.setAttribute('data-theme',d?'dark':'light');}catch(e){}</script>
+<meta name="theme-color" content="#F2EDE2">
+<script>try{var p=JSON.parse(localStorage.getItem('minhas-notas-pref')||'{}'),t=p.tema||'auto',d=t==='escuro'||(t==='auto'&&window.matchMedia&&matchMedia('(prefers-color-scheme: dark)').matches),e=document.documentElement;e.setAttribute('data-theme',d?'dark':'light');e.setAttribute('data-estilo',p.estilo||'caderno');if(/^#[0-9A-Fa-f]{6}$/.test(p.accent||'')){e.setAttribute('data-accent','1');e.style.setProperty('--accent-c',p.accent);}}catch(e){}</script>
 <title>Minhas notas</title>
 <link rel="manifest" href="./manifest.webmanifest">
 <link rel="icon" href="./icon-192.png">

diff --git a/src/main.js b/src/main.js
@@ -1,4 +1,7 @@
 import '@fontsource-variable/inter';
+import '@fontsource-variable/fraunces';
+import '@fontsource/ibm-plex-mono/400.css';
+import '@fontsource/ibm-plex-mono/600.css';
 import './style.css';
 import { createClient } from '@supabase/supabase-js';
 import { SUPABASE_URL, SUPABASE_KEY } from './config.js';
